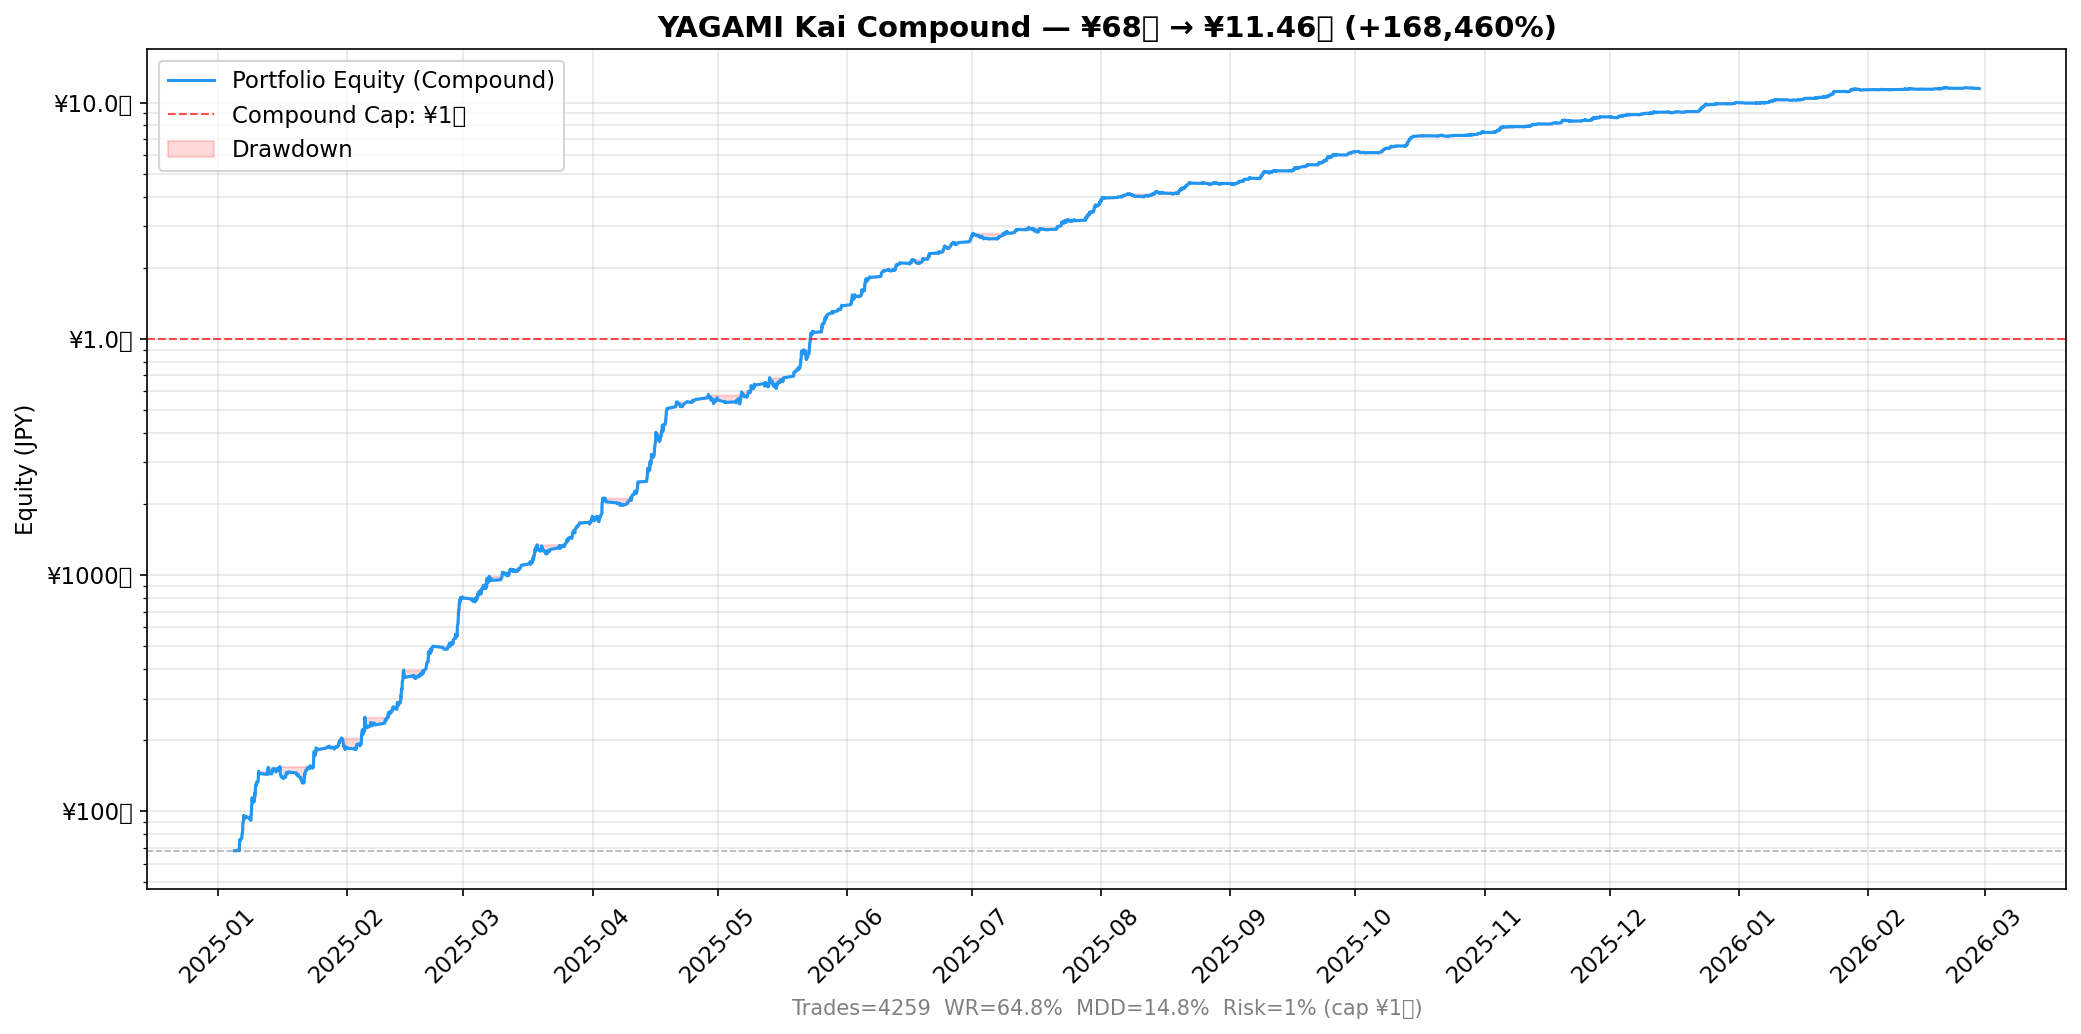
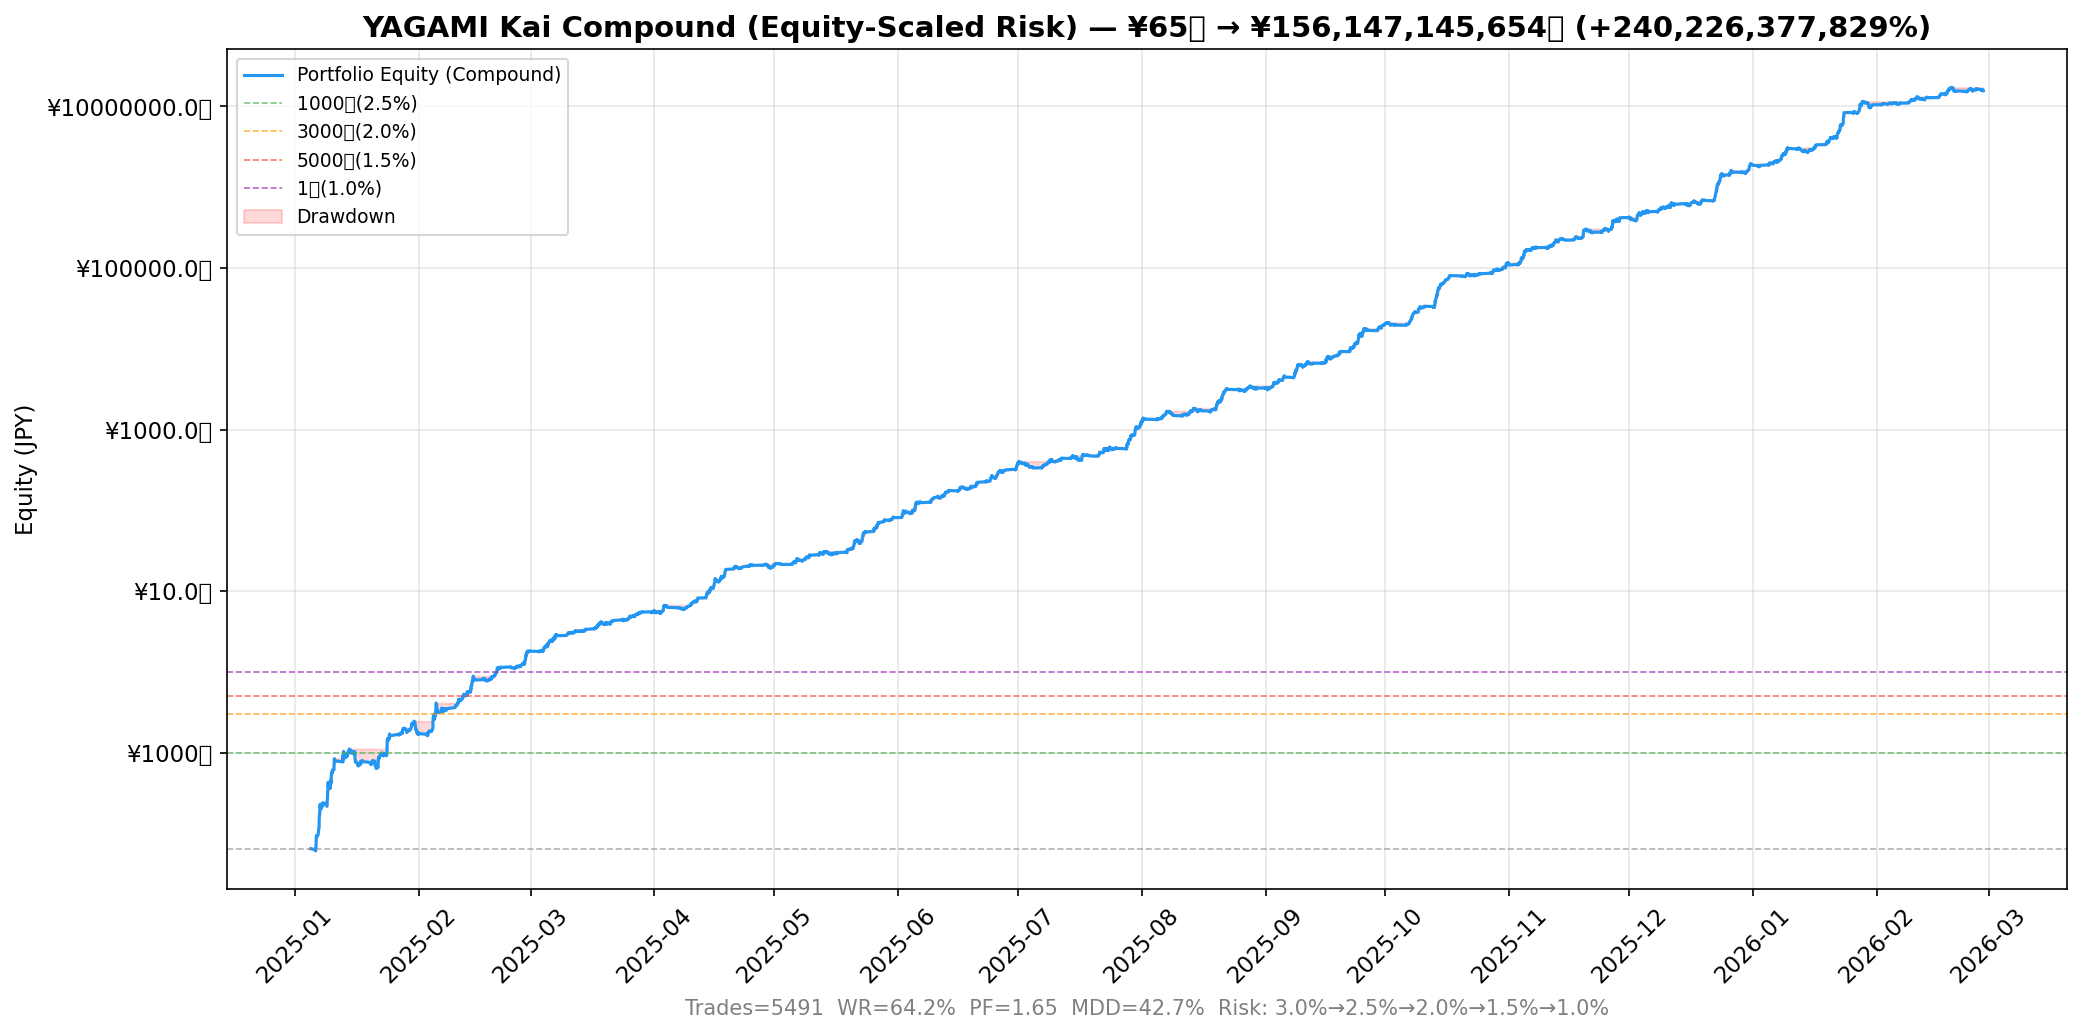
feat: 複利バックテスト更新 — 資産規模連動リスク逓減テーブル対応
7銘柄対応(EURUSD追加)、EQUITY_RISK_TABLEによる3%→1%段階逓減、
1000万超え後の30取引詳細表示、リスクステージ到達時刻表示を追加。

https://claude.ai/code/session_01WUWuSXKaa9cD54EXzWskae

diff --git a/scripts/backtest_compound.py b/scripts/backtest_compound.py
@@ -1,13 +1,15 @@
 """
 backtest_compound.py
 ====================
-複利バックテスト — 総資産1億円まで損切り1%、1億円超は固定ロット
+複利バックテスト — 資産規模連動リスク逓減テーブル
 
 ルール:
-  - 初期資金: 68万円
-  - 資産 < 1億円: 損切り = 現在資産 × 1%
-  - 資産 ≥ 1億円: 損切り = 1億円 × 1% = 100万円 固定
-  - 6銘柄同時運用、シグナルは時系列で処理
+  - 初期資金: 65万円
+  - 資産規模連動リスク逓減:
+    ~1000万: 3.0% / 1000万~3000万: 2.5% / 3000万~5000万: 2.0%
+    5000万~1億: 1.5% / 1億~: 1.0%
+  - 7銘柄同時運用、シグナルは時系列で処理
+  - 1000万超え後の30取引を詳細表示
 """
 import os, sys, warnings
 warnings.filterwarnings("ignore")
@@ -18,9 +20,7 @@ sys.path.insert(0, os.path.dirname(os.path.dirname(os.path.abspath(__file__))))
 from utils.risk_manager import RiskManager, SYMBOL_CONFIG
 
 # ── 定数 ─────────────────────────────────────────────────────────
-INIT_CASH         = 680_000
-COMPOUND_CAP      = 100_000_000   # 1億円で複利上限
-RISK_PCT          = 0.01          # 損切り = 資産の1%
+INIT_CASH         = 650_000
 RR_RATIO          = 2.5
 HALF_R            = 1.0
 MAX_LOOKAHEAD     = 20_000
@@ -41,14 +41,31 @@ DATA_DIR      = os.path.join(BASE_DIR, "data")
 OUT_DIR       = os.path.join(BASE_DIR, "results")
 os.makedirs(OUT_DIR, exist_ok=True)
 
-# ── 採用6銘柄 ────────────────────────────────────────────────────
+# ── 資産規模連動リスク逓減テーブル ──────────────────────────────────
+EQUITY_RISK_TABLE = [
+    (100_000_000, 0.010),  # 1億〜:      1.0%
+    ( 50_000_000, 0.015),  # 5000万〜1億: 1.5%
+    ( 30_000_000, 0.020),  # 3000万〜5000万: 2.0%
+    ( 10_000_000, 0.025),  # 1000万〜3000万: 2.5%
+    (          0, 0.030),  # 〜1000万:    3.0%（加速成長期）
+]
+
+def equity_risk_pct(equity_jpy: float) -> float:
+    """資産規模に応じたリスク%を返す"""
+    for threshold, risk in EQUITY_RISK_TABLE:
+        if equity_jpy >= threshold:
+            return risk
+    return 0.030
+
+# ── 採用7銘柄 ────────────────────────────────────────────────────
 TARGETS = [
     {"sym": "USDJPY",  "logic": "C", "label": "USDJPY (Logic-C)"},
+    {"sym": "EURUSD",  "logic": "C", "label": "EURUSD (Logic-C)"},
     {"sym": "GBPUSD",  "logic": "A", "label": "GBPUSD (Logic-A)"},
     {"sym": "USDCAD",  "logic": "A", "label": "USDCAD (Logic-A)"},
-    {"sym": "NZDUSD",  "logic": "A", "label": "NZDUSD (Logic-A)"},
+    {"sym": "NZDUSD",  "logic": "A", "label": "NZDUSD (Logic-A)", "tol_factor": 0.20},
     {"sym": "AUDUSD",  "logic": "B", "label": "AUDUSD (Logic-B)", "h4_body_ratio_min": 0.3},
-    {"sym": "XAUUSD",  "logic": "A", "label": "XAUUSD (Logic-A)"},
+    {"sym": "XAUUSD",  "logic": "A", "label": "XAUUSD (Logic-A)", "tol_factor": 0.20},
 ]
 
 # ── backtest_portfolio_680k.py から関数をインポート ──────────────────
@@ -67,8 +84,8 @@ _exit            = _bt._exit
 
 def main():
     print(f"\n{'='*80}")
-    print(f"  YAGAMI改 複利ポートフォリオバックテスト")
-    print(f"  初期資金 ¥{INIT_CASH:,.0f} / リスク1% / 1億円で固定ロット化")
+    print(f"  YAGAMI改 複利ポートフォリオバックテスト（資産規模連動リスク逓減）")
+    print(f"  初期資金 ¥{INIT_CASH:,.0f} / ~1000万:3% → 1000万~:2.5% → ... → 1億~:1%")
     print(f"{'='*80}")
 
     # ── Phase 1: 全銘柄のシグナルを収集 ─────────────────────────────
@@ -108,36 +125,25 @@ def main():
     all_signals.sort(key=lambda x: x["time"])
     print(f"\n  統合シグナル数: {len(all_signals)}")
 
-    # ── Phase 2: 複利シミュレーション ─────────────────────────────
+    # ── Phase 2: 複利シミュレーション（資産規模連動リスク） ─────────────
     equity = float(INIT_CASH)
     trades = []
     eq_history = [{"time": all_signals[0]["time"] - pd.Timedelta(days=1), "equity": equity}]
 
-    cap_reached = False
-    cap_reached_time = None
-    fixed_risk_jpy = None   # 1億円到達時のリスク額を固定
+    crossed_10m = False
+    crossed_10m_idx = None
 
     for sig in all_signals:
         sym = sig["sym"]
         sd  = sym_data[sym]
 
-        # ── リスク額の決定 ──────────────────────────────────────
-        if equity >= COMPOUND_CAP and not cap_reached:
-            cap_reached = True
-            cap_reached_time = sig["time"]
-            fixed_risk_jpy = COMPOUND_CAP * RISK_PCT  # 100万円固定
-
-        if cap_reached:
-            risk_jpy = fixed_risk_jpy
-        else:
-            risk_jpy = equity * RISK_PCT
+        # ── 資産規模連動リスク%の決定 ──────────────────────────────
+        risk_pct = equity_risk_pct(equity)
+        risk_jpy = equity * risk_pct
 
         # ── ロット計算 ──────────────────────────────────────────
-        rm = RiskManager(sym, risk_pct=RISK_PCT)
-        # risk_jpyからロットを逆算: lot = risk_jpy / (sl_distance * conversion)
-        # calc_lotはequity * risk_pctを使うので、equityを調整して渡す
-        effective_equity = risk_jpy / RISK_PCT
-        lot = rm.calc_lot(effective_equity, sig["risk"], sig["ep"], usdjpy_rate=150.0)
+        rm = RiskManager(sym, risk_pct=risk_pct)
+        lot = rm.calc_lot(equity, sig["risk"], sig["ep"], usdjpy_rate=150.0)
         if lot <= 0:
             continue
 
@@ -165,12 +171,19 @@ def main():
         total_pnl = half_pnl + pnl
         equity += total_pnl
 
+        trade_idx = len(trades)
         trades.append({
             "time": sig["time"], "sym": sym, "result": result,
             "pnl": total_pnl, "equity": equity, "risk_jpy": risk_jpy,
-            "lot": lot, "month": sig["time"].strftime("%Y-%m"),
+            "risk_pct": risk_pct, "lot": lot,
+            "month": sig["time"].strftime("%Y-%m"),
         })
         eq_history.append({"time": sig["time"], "equity": equity})
+
+        # 1000万円超えの最初のトレードを記録
+        if not crossed_10m and equity >= 10_000_000:
+            crossed_10m = True
+            crossed_10m_idx = trade_idx
 
     if not trades:
         print("\nトレードなし"); return
@@ -222,19 +235,35 @@ def main():
         print(f"  {sym_name:10} {len(sub):>8} {sw/len(sub)*100:>7.1f}% {sub['pnl'].sum():>+16,.0f}")
 
     print(f"\n{'='*80}")
-    print(f"  ■ 複利ポートフォリオ最終結果")
+    print(f"  ■ 複利ポートフォリオ最終結果（資産規模連動リスク逓減）")
     print(f"{'='*80}")
     print(f"  初期資金        : ¥{INIT_CASH:>16,.0f}")
     print(f"  最終資産        : ¥{final_equity:>16,.0f}")
     print(f"  総損益          : ¥{final_equity - INIT_CASH:>+16,.0f} ({(final_equity/INIT_CASH - 1)*100:+,.1f}%)")
     print(f"  トレード数      : {n:>10}")
     print(f"  勝率            : {wr*100:>9.1f}%")
+    print(f"  PF              : {pf:>9.2f}")
+    print(f"  Sharpe          : {sharpe:>9.2f}")
     print(f"  最大DD          : {mdd:>9.1f}% (¥{mdd_jpy:>12,.0f})")
     print(f"  プラス月        : {plus_m}/{len(monthly)}")
     print(f"  期間            : {df.iloc[0]['time'].strftime('%Y-%m-%d')} 〜 {df.iloc[-1]['time'].strftime('%Y-%m-%d')}")
-    if cap_reached:
-        print(f"\n  ★ 1億円到達    : {cap_reached_time.strftime('%Y-%m-%d')}")
-        print(f"  ★ 固定リスク額  : ¥{fixed_risk_jpy:>12,.0f}/トレード")
+
+    # ── リスク逓減ステージ到達時刻 ────────────────────────────────
+    print(f"\n  ■ リスクステージ到達")
+    stages = [
+        (10_000_000,  "1,000万（3.0%→2.5%）"),
+        (30_000_000,  "3,000万（2.5%→2.0%）"),
+        (50_000_000,  "5,000万（2.0%→1.5%）"),
+        (100_000_000, "1億（1.5%→1.0%）"),
+    ]
+    for threshold, label in stages:
+        reached = df[df["equity"] >= threshold]
+        if not reached.empty:
+            t = reached.iloc[0]["time"]
+            idx = reached.index[0]
+            print(f"    {label}: {t.strftime('%Y-%m-%d')} (第{idx+1}トレード)")
+        else:
+            print(f"    {label}: 未到達")
 
     # ── 月次損益 ──────────────────────────────────────────────
     print(f"\n  ■ 月次損益")
@@ -242,10 +271,30 @@ def main():
     for m in monthly.index:
         pnl_m = monthly[m]
         eq_m += pnl_m
-        # 月末の平均リスク額
         m_trades = df[df["month"] == m]
-        avg_risk = m_trades["risk_jpy"].mean()
-        print(f"    {m} : ¥{pnl_m:>+14,.0f}  (残高 ¥{eq_m:>14,.0f})  平均リスク ¥{avg_risk:>10,.0f}")
+        avg_risk = m_trades["risk_pct"].mean() * 100
+        print(f"    {m} : ¥{pnl_m:>+14,.0f}  (残高 ¥{eq_m:>14,.0f})  平均リスク {avg_risk:.1f}%")
+
+    # ── 1000万円超え後の30取引詳細 ──────────────────────────────
+    print(f"\n{'='*80}")
+    print(f"  ■ 1000万円超え後の取引履歴（30取引）")
+    print(f"{'='*80}")
+    if crossed_10m_idx is not None:
+        detail_start = crossed_10m_idx
+        detail_end = min(detail_start + 30, len(df))
+        print(f"  {'#':>3} {'日時':19} {'銘柄':8} {'結果':4} {'損益(¥)':>14} {'残高(¥)':>16} {'リスク%':>7}")
+        print(f"  {'-'*76}")
+        for i in range(detail_start, detail_end):
+            row = df.iloc[i]
+            marker = ""
+            if i == detail_start:
+                marker = " ← 1000万突破"
+            print(f"  {i-detail_start+1:>3} {row['time'].strftime('%Y-%m-%d %H:%M')} "
+                  f"{row['sym']:8} {row['result']:4} "
+                  f"¥{row['pnl']:>+13,.0f} ¥{row['equity']:>15,.0f} "
+                  f"{row['risk_pct']*100:.1f}%{marker}")
+    else:
+        print("  1000万円に到達しませんでした")
 
     # ── エクイティカーブ描画 ──────────────────────────────────
     import matplotlib
@@ -262,15 +311,21 @@ def main():
 
     ax.plot(times, eqs, color="#2196F3", linewidth=1.5, label="Portfolio Equity (Compound)")
     ax.axhline(y=INIT_CASH, color="gray", linestyle="--", linewidth=0.8, alpha=0.6)
-    ax.axhline(y=COMPOUND_CAP, color="red", linestyle="--", linewidth=1.0, alpha=0.7,
-               label=f"Compound Cap: ¥{COMPOUND_CAP/1e8:.0f}億")
+
+    # リスクステージ境界線
+    stage_colors = ["#4CAF50", "#FF9800", "#F44336", "#9C27B0"]
+    stage_labels = ["1000万(2.5%)", "3000万(2.0%)", "5000万(1.5%)", "1億(1.0%)"]
+    stage_vals   = [10_000_000, 30_000_000, 50_000_000, 100_000_000]
+    for sv, sc, sl in zip(stage_vals, stage_colors, stage_labels):
+        ax.axhline(y=sv, color=sc, linestyle="--", linewidth=0.8, alpha=0.7, label=sl)
 
     # MDD塗り
     peak_arr = np.maximum.accumulate(eqs)
     ax.fill_between(times, eqs, peak_arr, alpha=0.15, color="red", label="Drawdown")
 
     ax.set_title(
-        f"YAGAMI Kai Compound — ¥{INIT_CASH/1e4:.0f}万 → ¥{final_equity/1e8:.2f}億 "
+        f"YAGAMI Kai Compound (Equity-Scaled Risk) — "
+        f"¥{INIT_CASH/1e4:.0f}万 → ¥{final_equity/1e4:,.0f}万 "
         f"(+{(final_equity/INIT_CASH-1)*100:,.0f}%)",
         fontsize=14, fontweight="bold")
     ax.set_ylabel("Equity (JPY)")
@@ -280,11 +335,11 @@ def main():
     ax.xaxis.set_major_formatter(mdates.DateFormatter("%Y-%m"))
     ax.xaxis.set_major_locator(mdates.MonthLocator())
     plt.xticks(rotation=45)
-    ax.legend(loc="upper left")
+    ax.legend(loc="upper left", fontsize=9)
     ax.grid(True, alpha=0.3, which="both")
 
-    info = (f"Trades={n}  WR={wr*100:.1f}%  MDD={mdd:.1f}%  "
-            f"Risk=1% (cap ¥{COMPOUND_CAP/1e8:.0f}億)")
+    info = (f"Trades={n}  WR={wr*100:.1f}%  PF={pf:.2f}  MDD={mdd:.1f}%  "
+            f"Risk: 3.0%→2.5%→2.0%→1.5%→1.0%")
     ax.text(0.5, -0.15, info, transform=ax.transAxes, ha="center", fontsize=10, color="gray")
 
     plt.tight_layout()
